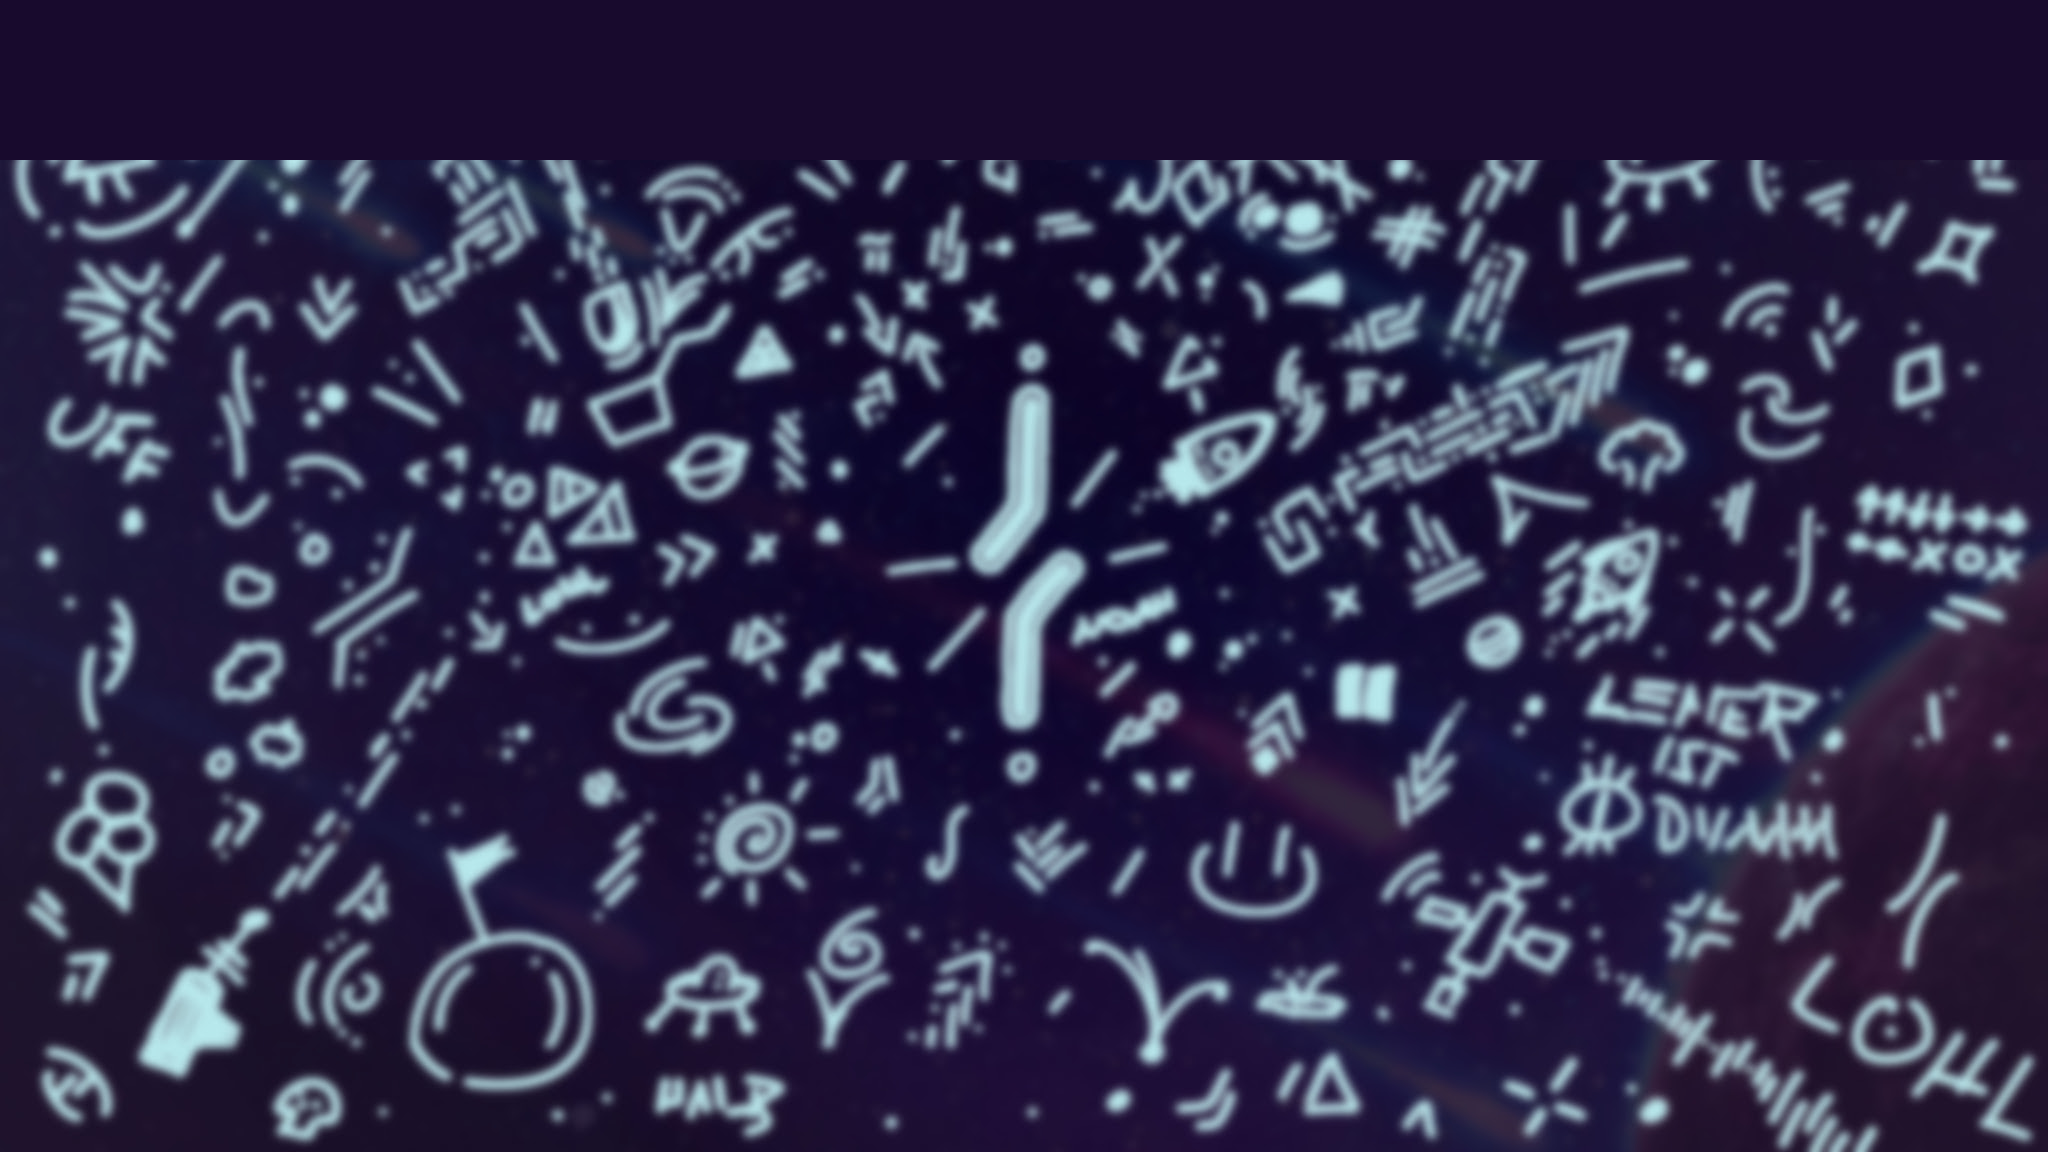
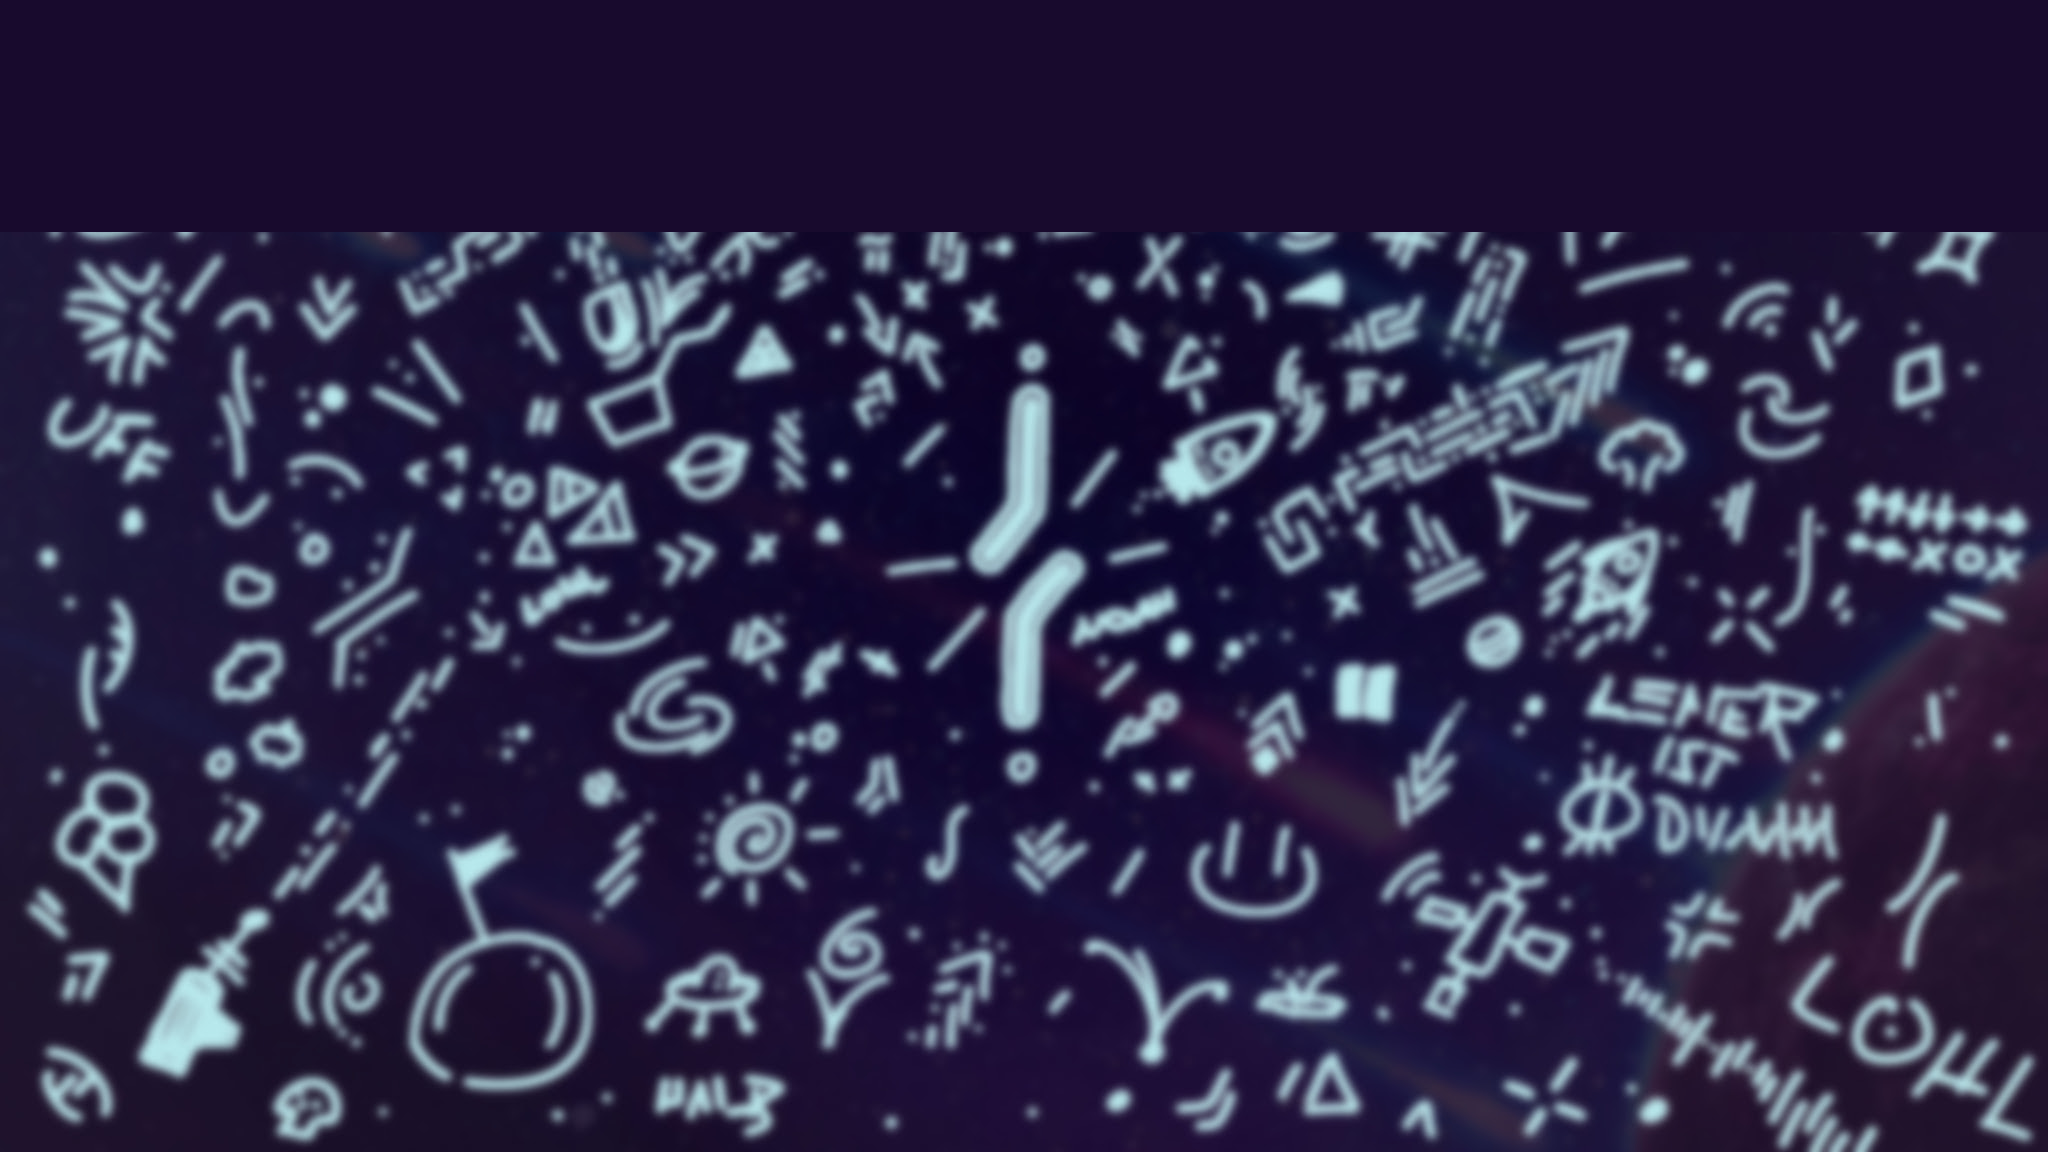
Added subpages: "faq,paint,yt_feed". Renewed the navigation bar.

Changed region(s): [[0.0, 0.125, 0.9688, 0.2188], [0.9375, 0.125, 1.0, 0.1875], [0.4375, 0.1875, 0.4688, 0.2188]]

diff --git a/css/style.css b/css/style.css
@@ -3,40 +3,6 @@ body {
     background-image: url(../resources/halbzwilling_channel_background_image_blur.jpg);
     font-family: din-next-w01-light,din-next-w02-light,din-next-w10-light,sans-serif;
     color: #ACA9A9;
-}
-
-nav {
-    cursor: pointer
-}
-
-ul {
-    list-style-type: none;
-    padding: 15px;
-}
-
-li {
-    display: inline;
-    padding: inherit;
-    margin: auto;
-    border: 1px solid #d3d3d3;
-    
-    -o-transition:.3s;
-    -ms-transition:.3s;
-    -moz-transition:.3s;
-    -webkit-transition:.3s;
-    transition:.3s;
-}
-
-a {
-    color: #ACA9A9;
-    text-decoration: none;
-}
-
-li:hover:not(.selected) {
-    background-color: #d3d3d3
-}
-
-.selected {
-    background-color: #5f5e5e;
-    cursor: default
+    background-size: cover;
+    background-repeat: no-repeat;
 }

diff --git a/index.html b/index.html
@@ -6,6 +6,7 @@
 
     <link type="text/css" rel="stylesheet" href="css/style.css">
     <link type="text/css" rel="stylesheet" href="css/fade.css">
+    <link type="text/css" rel="stylesheet" href="css/navbar.css">
 </head>
 
 <body>
@@ -15,13 +16,13 @@
                 Hauptwebsite
             </li>
             <li>
-                <a href="#">YouTube Feed</a>
+                <a href="subpages/yt_feed.html">YouTube Feed</a>
             </li>
             <li>
-                <a href="#">Paint</a>
+                <a href="subpages/paint.html">Paint</a>
             </li>
             <li>
-                <a href="#">FAQ</a>
+                <a href="subpages/faq.html">FAQ</a>
             </li>
         </ul>
     </nav>

diff --git a/subpages/faq.html b/subpages/faq.html
@@ -1,0 +1,26 @@
+<!DOCTYPE html>
+<html>
+<head>
+    <title>FAQ</title>
+    <link type="text/css" rel="stylesheet" href="../css/navbar.css">
+    <link type="text/css" rel="stylesheet" href="../css/subpages.css">
+</head>
+<body>
+    <nav>
+        <ul>
+            <li>
+                <a href="../index.html">Hauptwebsite</a>
+            </li>
+            <li>
+                <a href="yt_feed.html">YouTube Feed</a>
+            </li>
+            <li>
+                <a href="paint.html">Paint</a>
+            </li>
+            <li class="selected">
+                FAQ
+            </li>
+        </ul>
+    </nav>
+</body>
+</html>

diff --git a/subpages/paint.html b/subpages/paint.html
@@ -1,0 +1,26 @@
+<!DOCTYPE html>
+<html>
+<head>
+    <title>Paint</title>
+    <link type="text/css" rel="stylesheet" href="../css/navbar.css">
+    <link type="text/css" rel="stylesheet" href="../css/subpages.css">
+</head>
+<body>
+    <nav>
+        <ul>
+            <li>
+                <a href="../index.html">Hauptwebsite</a>
+            </li>
+            <li>
+                <a href="yt_feed.html">YouTube Feed</a>
+            </li>
+            <li class="selected">
+                Paint
+            </li>
+            <li>
+                <a href="faq.html">FAQ</a>
+            </li>
+        </ul>
+    </nav>
+</body>
+</html>

diff --git a/subpages/yt_feed.html b/subpages/yt_feed.html
@@ -1,0 +1,26 @@
+<!DOCTYPE html>
+<html>
+<head>
+    <title>YouTube</title>
+    <link type="text/css" rel="stylesheet" href="../css/subpages.css">
+    <link type="text/css" rel="stylesheet" href="../css/navbar.css">
+</head>
+<body>
+    <nav>
+        <ul>
+            <li>
+                <a href="../index.html">Hauptwebsite</a>
+            </li>
+            <li class="selected">
+                YouTube Feed
+            </li>
+            <li>
+                <a href="paint.html">Paint</a>
+            </li>
+            <li>
+                <a href="faq.html">FAQ</a>
+            </li>
+        </ul>
+    </nav>
+</body>
+</html>

diff --git a/css/navbar.css b/css/navbar.css
@@ -1,0 +1,39 @@
+nav {
+    cursor: pointer
+}
+
+ul {
+    background-color: rgb(73, 73, 73);
+    list-style-type: none;
+    padding: 0;
+    overflow: hidden;
+}
+
+li {
+    float: left;
+    display: inline;
+    padding: inherit;
+    -o-transition: .3s;
+    -moz-transition: .3s;
+    -webkit-transition: .3s;
+    transition: .3s;
+}
+
+a {
+    color: #ACA9A9;
+    text-decoration: none;
+    display: block;
+}
+
+li:hover:not(.selected) {
+    background-color: #d3d3d3
+}
+
+.selected {
+    background-color: #747474;
+    cursor: default
+}
+
+a,li.selected {
+    padding: 15px;
+}

diff --git a/css/subpages.css b/css/subpages.css
@@ -1,0 +1,5 @@
+body {
+    background-color: rgb(73, 73, 73);
+    color: #ACA9A9;
+    font-family: din-next-w01-light,din-next-w02-light,din-next-w10-light,sans-serif;
+}
